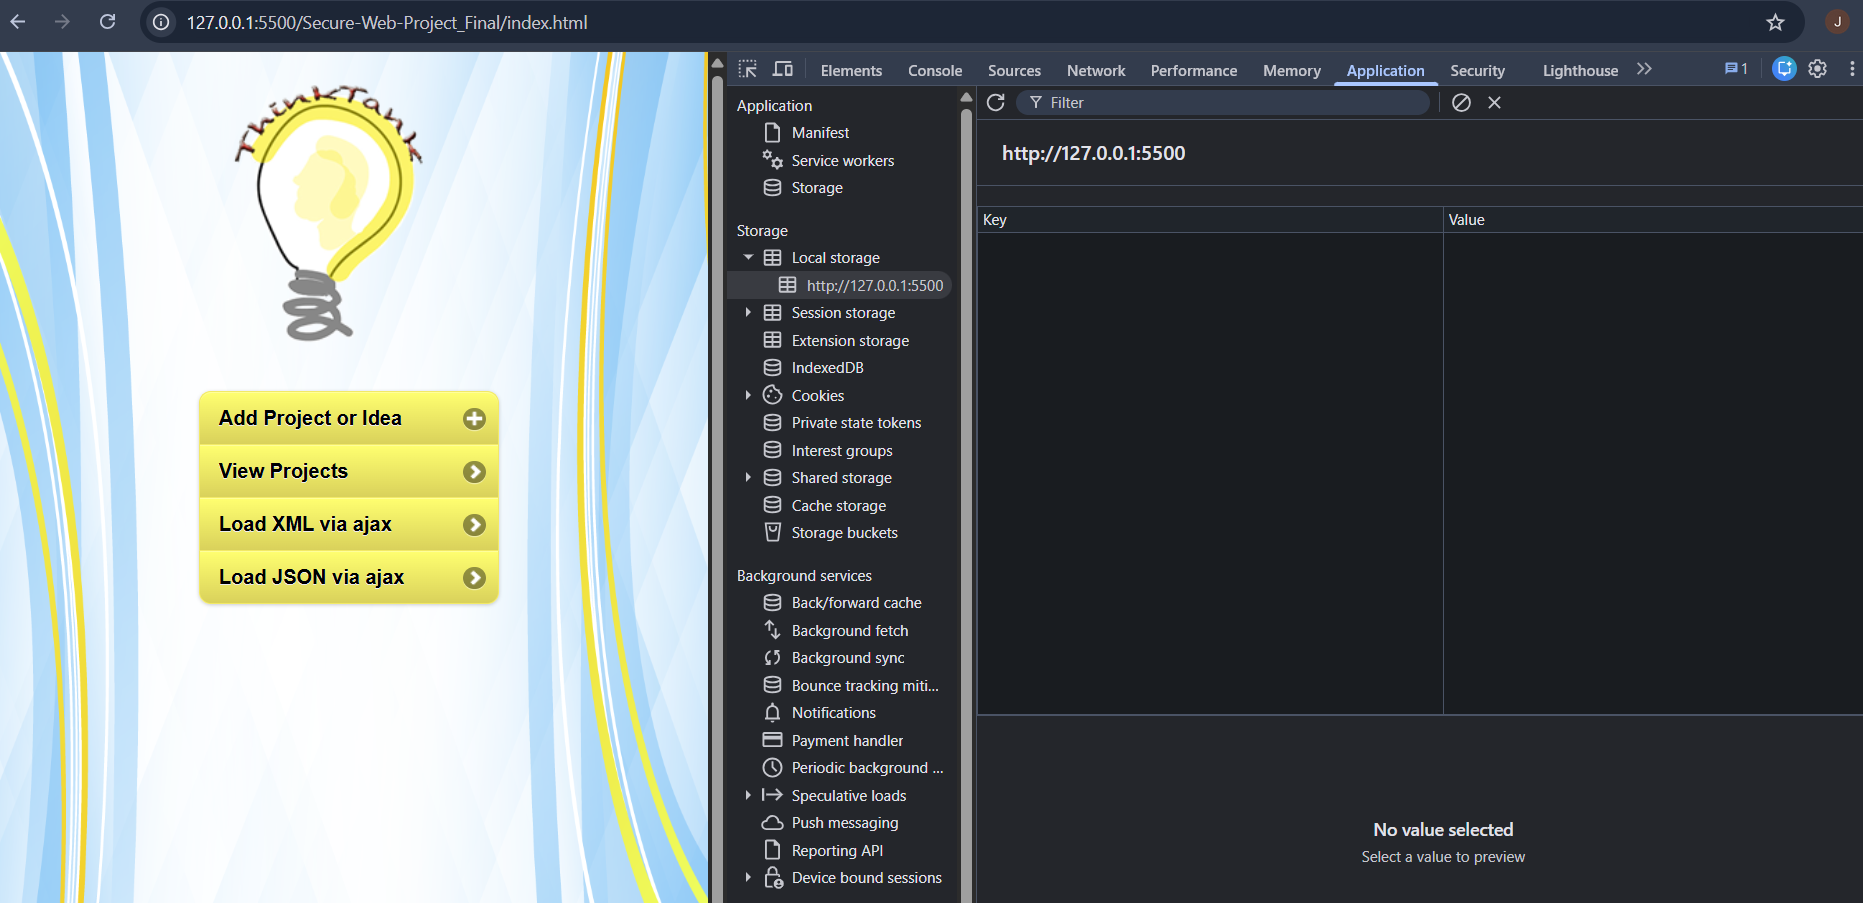
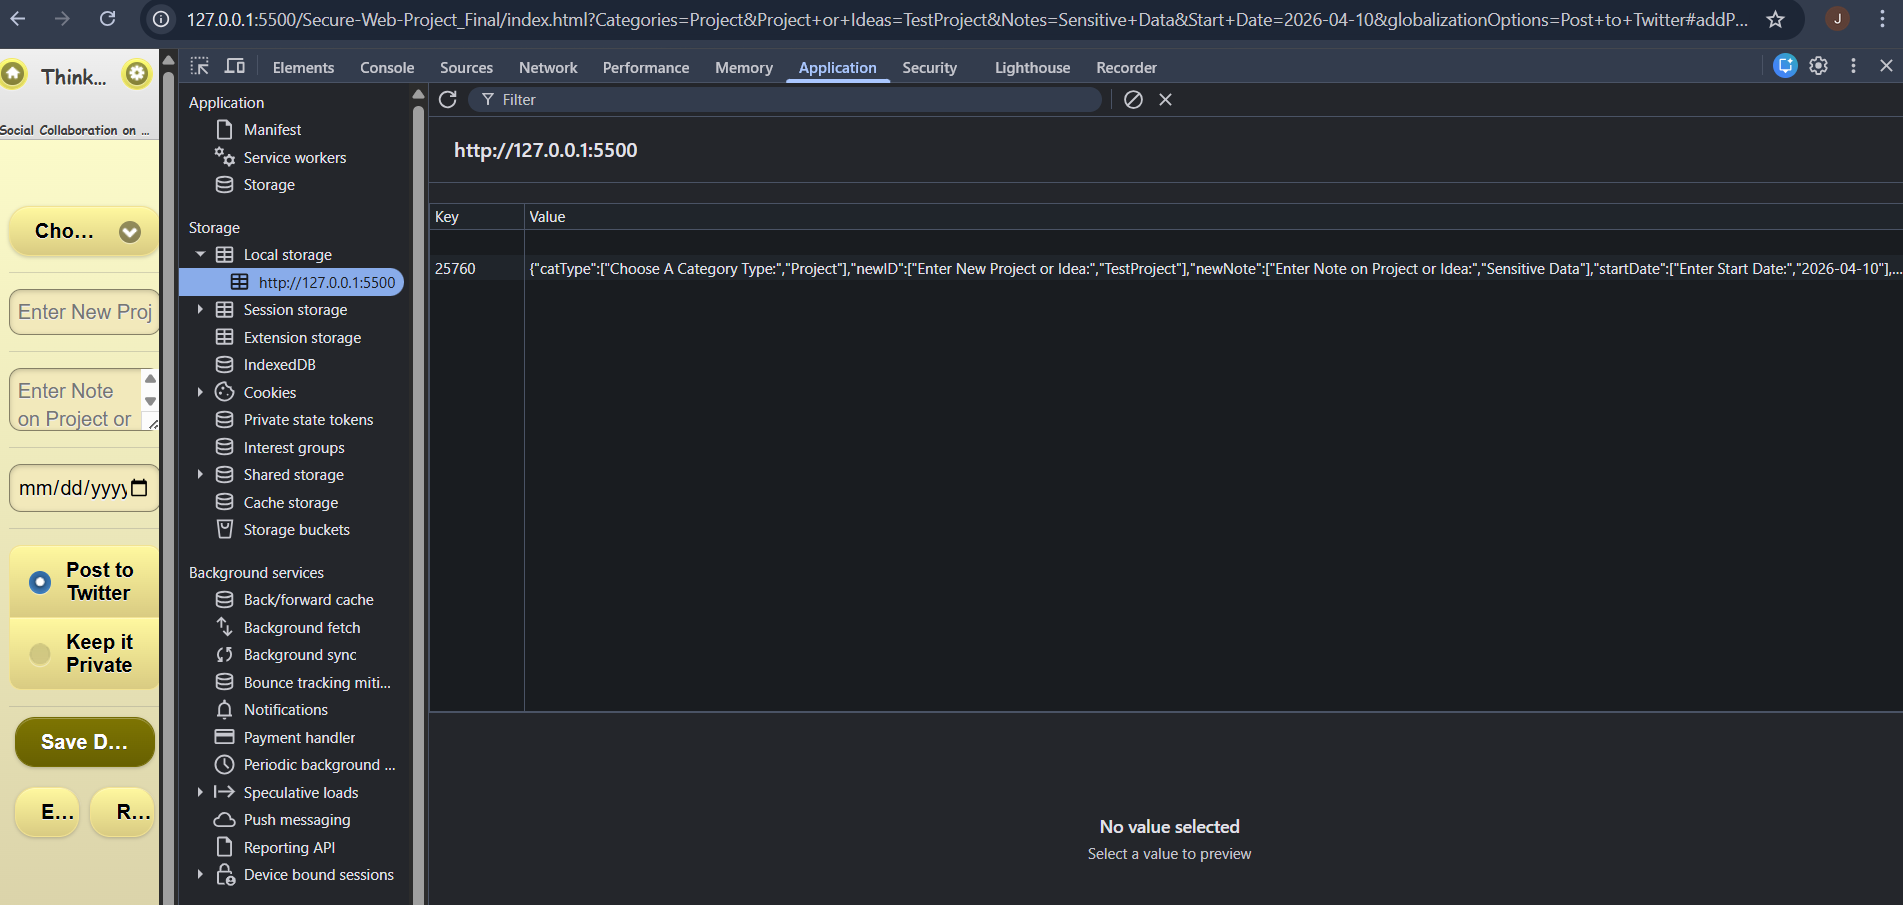
Identified insecure storage vulnerability in localStorage with proof screenshot

diff --git a/docs/vulnerability_log.md b/docs/vulnerability_log.md
@@ -11,3 +11,21 @@ Replaced unsafe string concatenation with jQuery .text() method.
 
 Result:
 User input is escaped and rendered safely.
+
+
+## Vulnerability 2: Insecure Data Storage (LocalStorage)
+
+Location:
+js/asd-1310-jQuery.js → storeData()
+
+Description:
+The application stores user input in browser localStorage without encryption.
+
+Impact:
+An attacker can access or modify sensitive data using browser developer tools.
+
+Proof:
+See screenshot: localstorage_exposed.png
+
+Mitigation:
+Avoid storing sensitive data in localStorage or use secure storage mechanisms.
